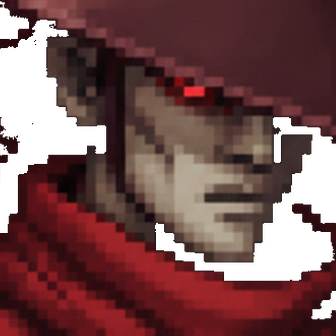
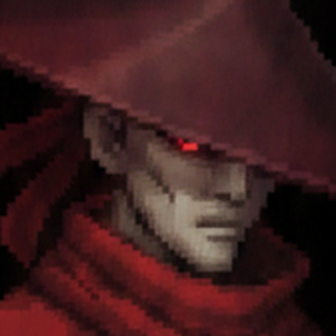
UI 打磨 R10: G1 成组立绘接入选人/VS/结算/HUD 四处
- Eric 拍板 G1; 拆半 → 近等比归一(0.85/0.84, 保留原生头身比),
  眼线同锚 (160,124), 剣二刀柄低阈值抠底(20)保形 + 孤岛去噪
- HUD 336px 新脸部切片: 脸占比一致, 帽檐/鬼角完整
- 四处回归截图入 mockups/r10; 审阅页清爽化更新(无待拍板项)

diff --git a/assets/ui-lab/audit-r6.html b/assets/ui-lab/audit-r6.html
@@ -2,7 +2,7 @@
 <html lang="zh">
 <head>
 <meta charset="utf-8">
-<title>刀魂 · UI 审阅页 — R9</title>
+<title>刀魂 · UI 审阅页 — R10</title>
 <style>
   body { margin:0; background:#14100d; color:#efe6d5; font:14px/1.75 "PingFang SC", monospace; }
   header { padding:22px 30px 10px; border-bottom:2px solid #3a2d1c; }
@@ -13,10 +13,8 @@
   .card { background:#1b1512; border:2px solid #3a2d1c; margin:14px 0; }
   .card .hd { padding:8px 16px; border-bottom:1px solid #3a2d1c; }
   .card .hd b { color:#ffe27a; font-size:15px; }
-  .card .bd { padding:10px 16px 14px; color:#c9bfa8; font-size:13px; }
   .card img { max-width:100%; display:block; background:#000; }
   .done { color:#7ec97e; font-weight:bold; }
-  .pick { color:#ff9c3d; font-weight:bold; }
   .grid2 { display:grid; grid-template-columns:1fr 1fr; gap:14px; }
   table { border-collapse:collapse; width:100%; font-size:13px; }
   td, th { border:1px solid #3a2d1c; padding:6px 10px; text-align:left; vertical-align:top; }
@@ -26,42 +24,30 @@
 </head>
 <body>
 <header>
-  <h1>刀魂 · UI 审阅页（R9）</h1>
-  <div class="sub">本轮拍板的 B/C/D/E 已全部实装（截图为真实运行画面）；唯一待你拍板的是成组立绘 3 选 1。历史轮次内容已清理。</div>
+  <h1>刀魂 · UI 审阅页（R10）</h1>
+  <div class="sub">G1 成组立绘已接入全部四处。<b>没有待拍板项了</b>——可以整体验收。截图为真实运行画面。</div>
 </header>
 
 <section>
-<h2>一、待拍板：成组立绘 3 选 1（生图模型原生重画）</h2>
-<div class="sub" style="padding-bottom:6px">按你的指示改为整组重新生成：把两人画进同一张图、用同一身体模板出图（同 zoom / 同眼线 / 同头身比），不再做缩放拼接。形象特点全部保留。我推荐 <b>G1</b>。选定后我拆分归一，一次性替换 选人 / VS / 结算 / HUD 四处头像。</div>
-<div class="grid2">
-<div class="card"><div class="hd"><b>G1</b>（<span class="pick">推荐</span>）两人头身比最一致，细节最干净</div><img src="portrait-pair-g1.png"></div>
-<div class="card"><div class="hd"><b>G3</b> 同样合格，隼人脸略小于 G1</div><img src="portrait-pair-g3.png"></div>
-</div>
-<div class="card"><div class="hd"><b>G2</b> 备选：比例也一致，但剣二被画上了头巾罩（原设定是露出黑色束发）</div><img src="portrait-pair-g2.png"></div>
-</section>
-
-<section>
-<h2>二、B/C/D/E 已实装 — 验证截图</h2>
+<h2>G1 立绘 · 四处接入完成</h2>
 <table>
-<tr><th>项</th><th>内容</th><th>状态</th></tr>
-<tr><td>B</td><td>防御冲击波：蓝色矩形 → 半月弧形气浪（外晕/主弧/内亮边三层，朝对手鼓出；格挡瞬间外扩涟漪，持盾预备态为微光呼吸）。fighter.js 尾部纯视觉 ~20 行</td><td class="done">✅ 图1</td></tr>
-<tr><td>C</td><td>选人屏月夜专属背景设为默认（<code>?selbg=dusk</code> 可切回黄昏）</td><td class="done">✅ 图2</td></tr>
-<tr><td>D</td><td>屏幕切换墨色淡入（18 tick 墨幕揭起；截图管线的 ff 快进会自动跳过，故无法截到，进游戏切屏即见）</td><td class="done">✅ 实机看</td></tr>
-<tr><td>E</td><td>难度选择折扇光标（图3）· 标题 logo 偶发金光闪烁（图4，魂字右上）· VS 过场斜切分割线+速度线（图5）</td><td class="done">✅</td></tr>
+<tr><th>位置</th><th>处理</th><th>状态</th></tr>
+<tr><td>选人屏</td><td>两人同尺度归一（0.85 / 0.84 近等比，保留 G1 原生比例），眼线同高、占比一致</td><td class="done">✅ 图1</td></tr>
+<tr><td>VS 过场</td><td>同一套立绘自动生效</td><td class="done">✅ 图2</td></tr>
+<tr><td>战斗 HUD</td><td>新脸部切片，两框脸部占比一致、帽檐/鬼角完整</td><td class="done">✅ 图3</td></tr>
+<tr><td>结算屏</td><td>胜者立绘同源更新</td><td class="done">✅ 图4</td></tr>
 </table>
 <div class="grid2">
-<div class="card"><div class="hd"><b>图1 · 防御冲击波</b>（左=持盾预备微光，右=格挡瞬间亮弧+涟漪）</div><img src="mockups/r9/t8-guard.png"></div>
-<div class="card"><div class="hd"><b>图2 · 选人月夜背景（默认）</b></div><img src="mockups/r9/t2-select-moon.png"></div>
-<div class="card"><div class="hd"><b>图3 · 难度折扇光标</b></div><img src="mockups/r9/t3-diff-fan.png"></div>
-<div class="card"><div class="hd"><b>图4 · 标题金光闪烁瞬间</b></div><img src="mockups/r9/t1-title-glint.png"></div>
+<div class="card"><div class="hd"><b>图1 · 选人屏</b></div><img src="mockups/r10/s1-select.png"></div>
+<div class="card"><div class="hd"><b>图2 · VS 过场</b></div><img src="mockups/r10/s2-vs.png"></div>
+<div class="card"><div class="hd"><b>图3 · 战斗 HUD</b></div><img src="mockups/r10/s3-hud.png"></div>
+<div class="card"><div class="hd"><b>图4 · 结算屏</b></div><img src="mockups/r10/s4-result.png"></div>
 </div>
-<div class="card"><div class="hd"><b>图5 · VS 斜切分割线 + 速度线</b></div><img src="mockups/r9/t4-vs-divider.png"></div>
-<div class="sub">顺手修：连击 HITS 泼墨底下移（原位置会盖住右侧角色名）。</div>
 </section>
 
 <section>
-<h2>三、回复格式</h2>
-<div class="sub" style="padding:2px 0 30px">回复「G1」/「G3」/「G2」或「再调 + 方向」即可。选定后立绘四处接入 + 全屏回归截图我直接完成。</div>
+<h2>整体验收提示</h2>
+<div class="sub" style="padding:2px 0 30px">上轮实装的 B 防御弧形气浪（战斗中按住后方向）、C 选人月夜背景、D 切屏墨色淡入（只能实机看）、E 难度折扇/logo 金光/VS 斜切线 都已在线上。从标题页整体走一遍即可：<code>http://localhost:8788/</code></div>
 </section>
 </body>
 </html>
